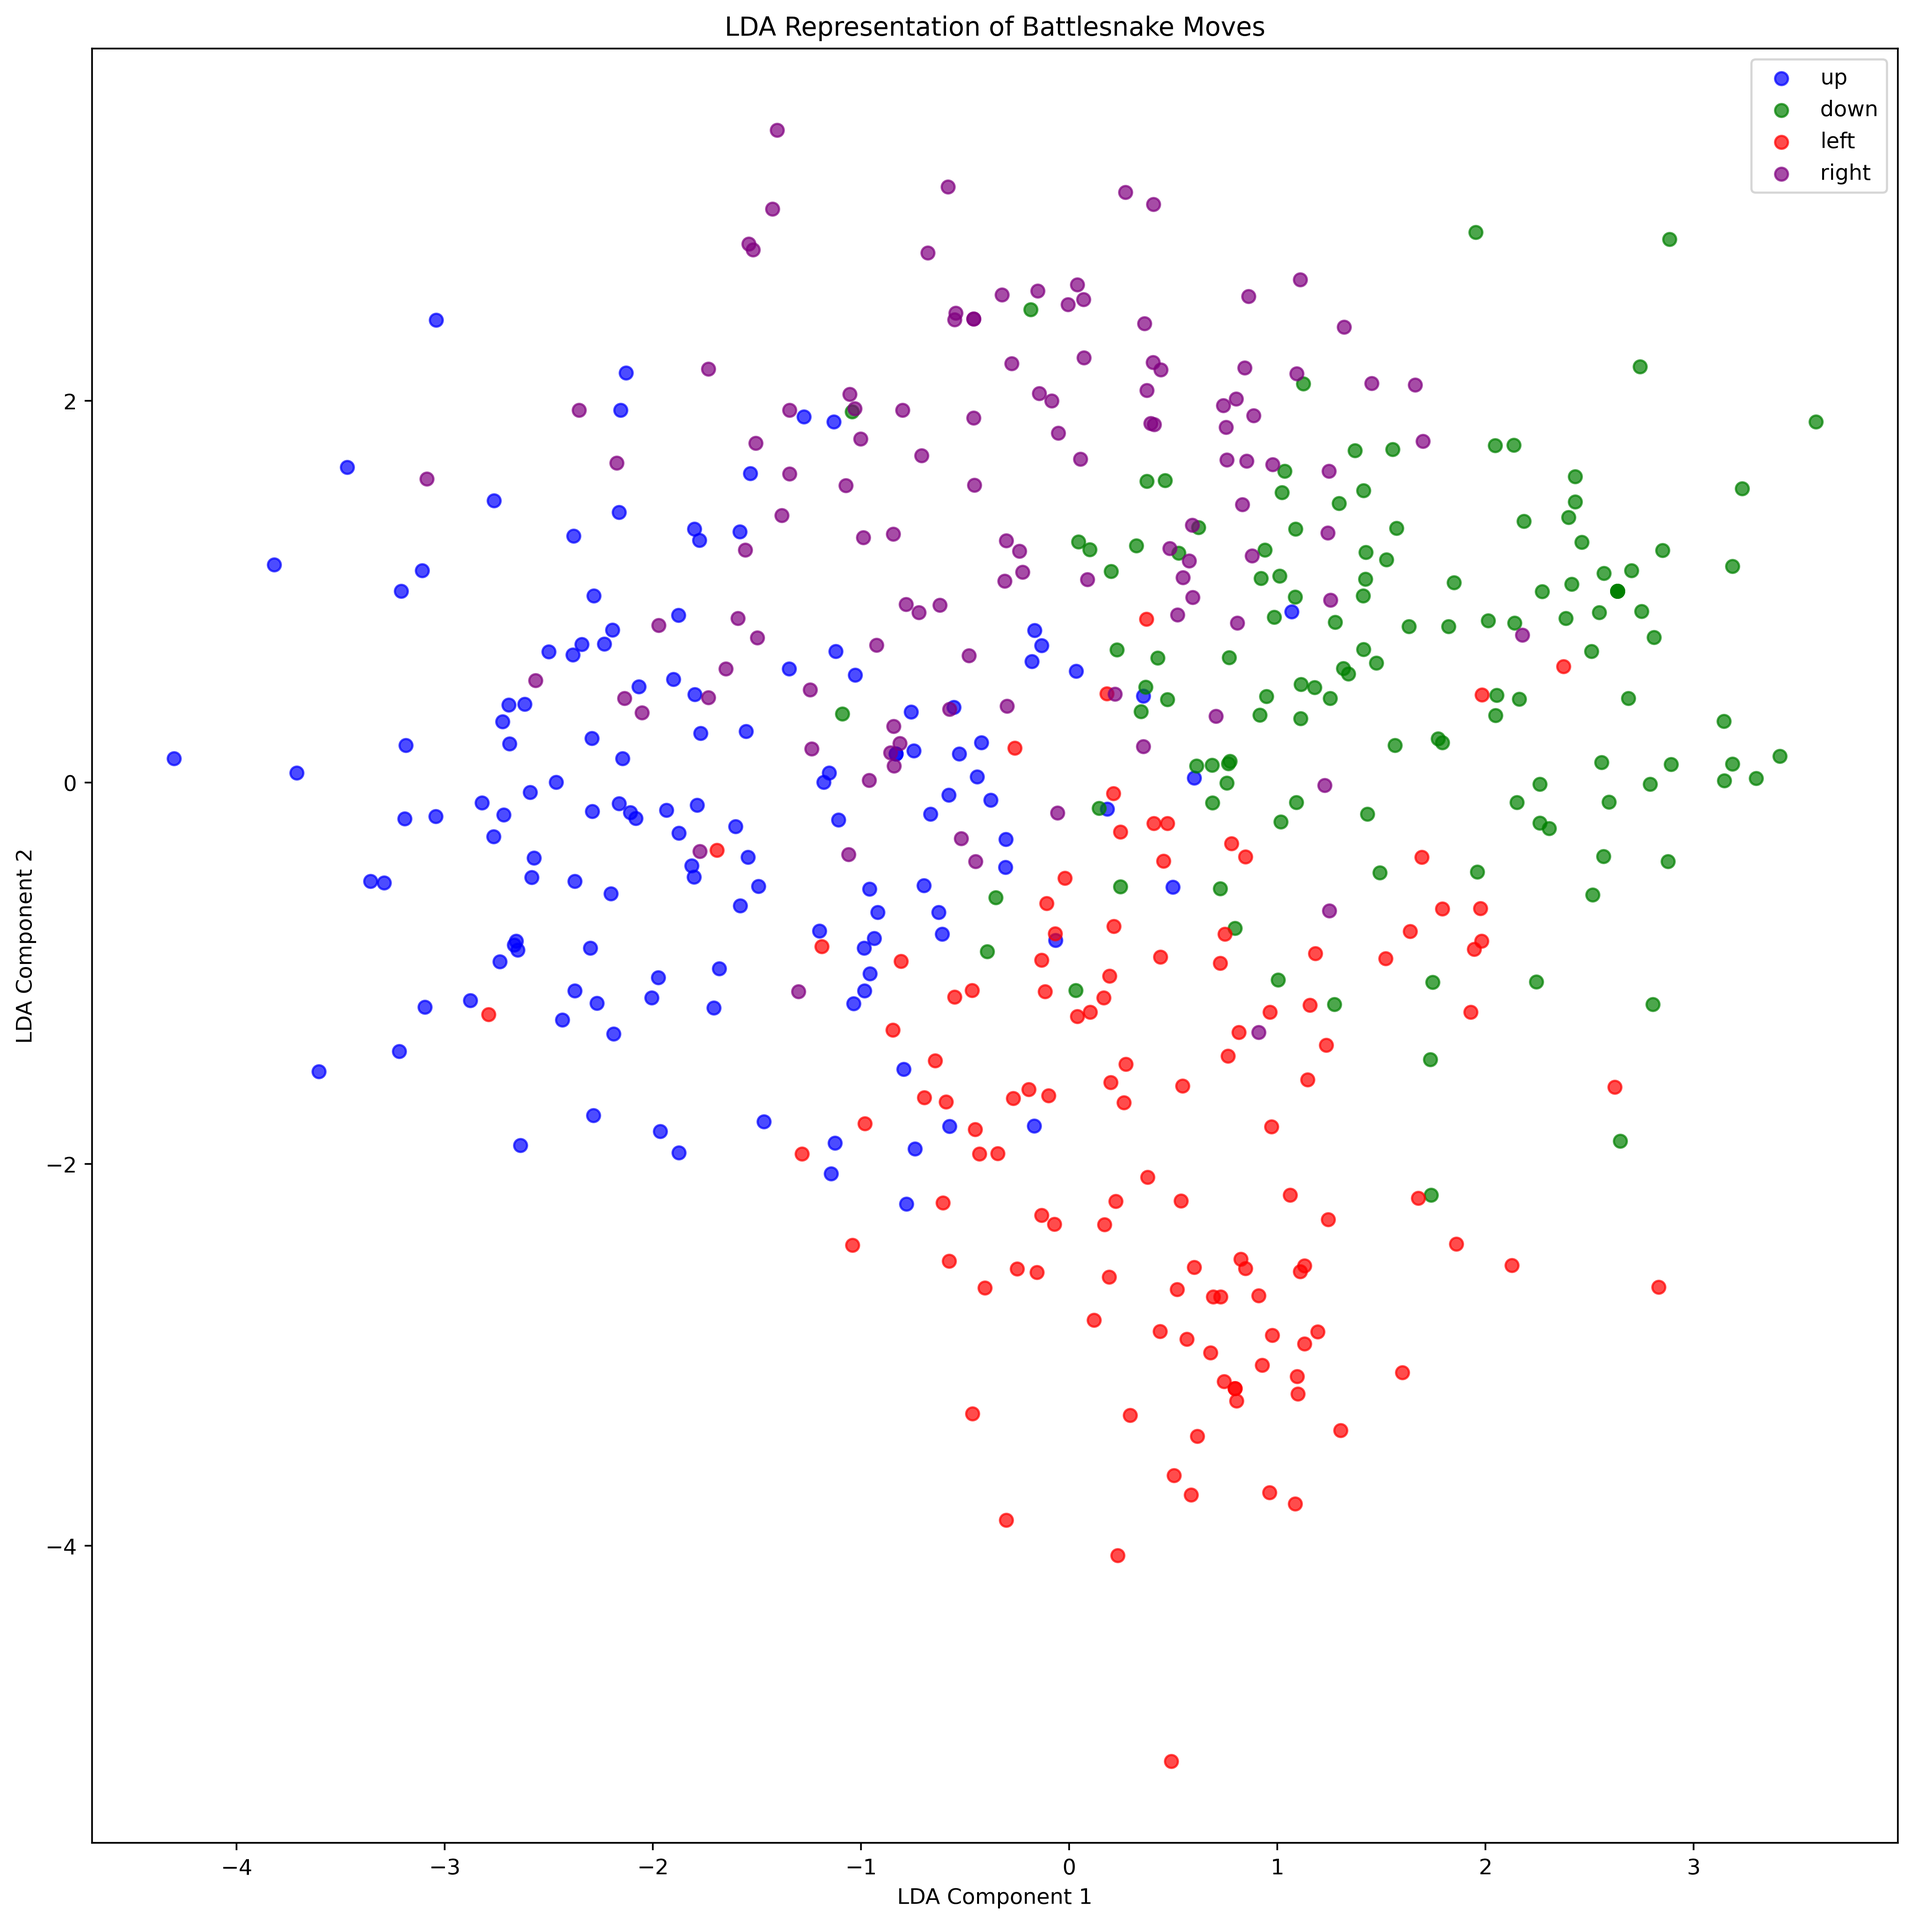
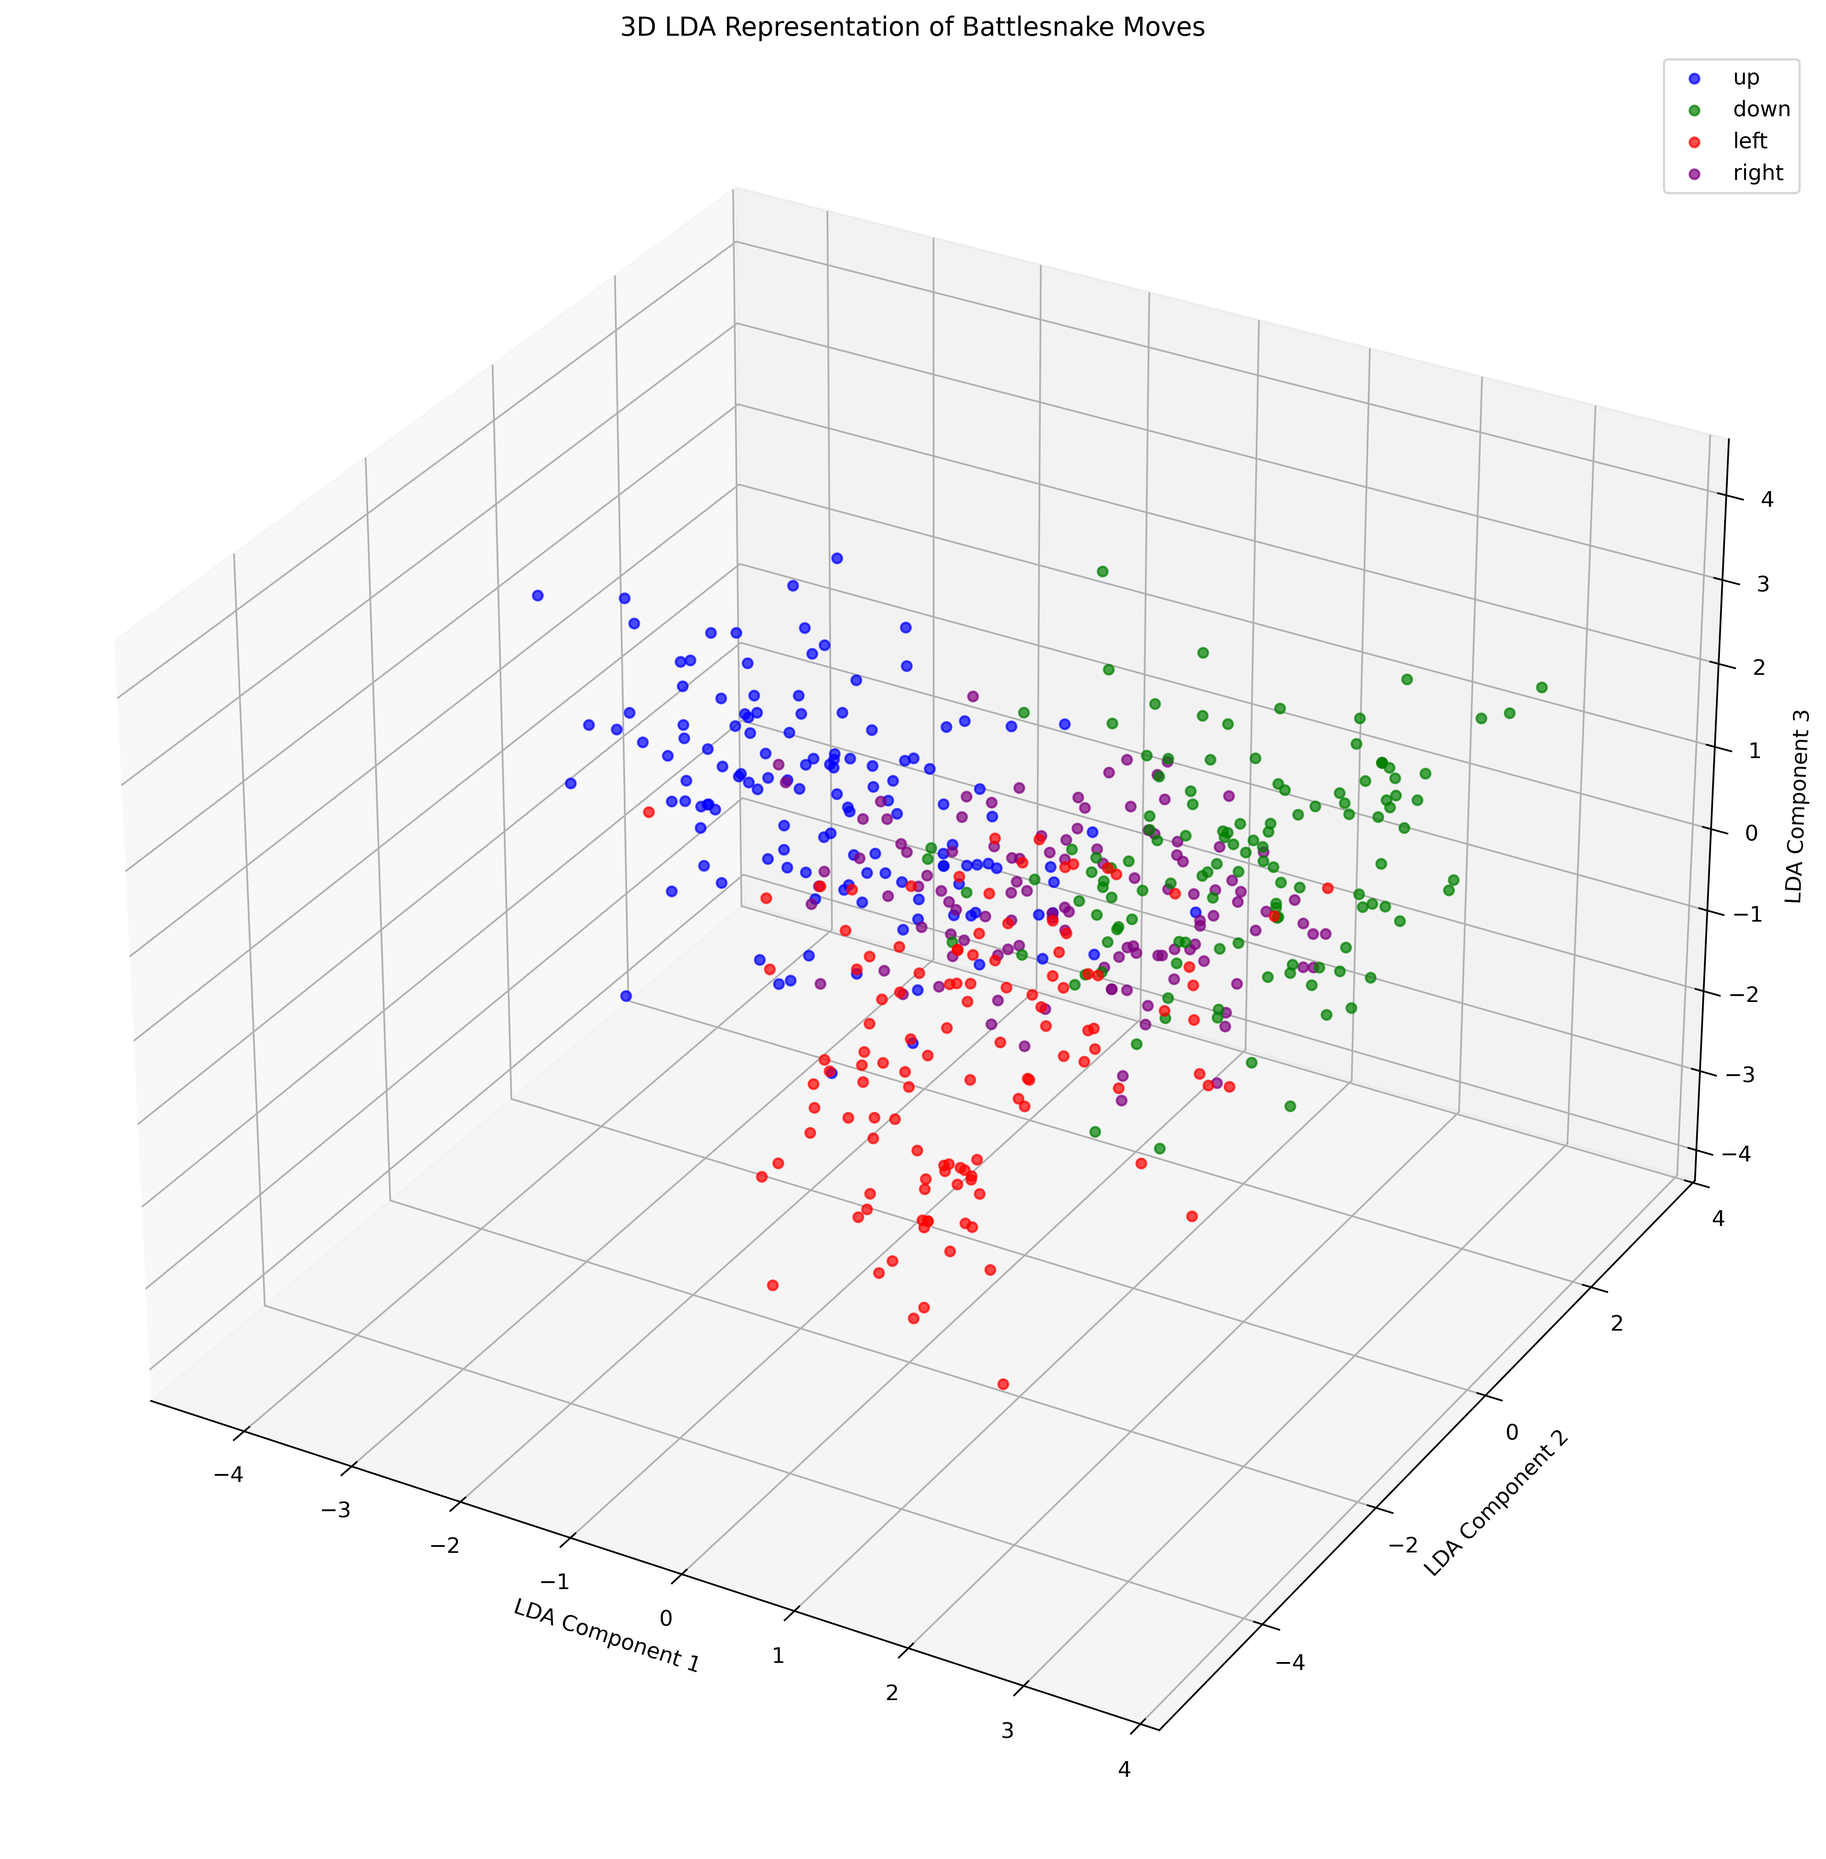
3d lda branch

diff --git a/Data/data.py b/Data/data.py
@@ -64,6 +64,50 @@ class Data:
     db_index = davies_bouldin_score(X_r2, y)
     print(f'Davies-Bouldin Index after LDA: {db_index}')
       
+  def plot_lda_3d(self, path=None, show=False):
+    X = self.flattened_frames[:-1]  # Last frame has no move
+    y = self.encoded_moves
+
+    scaler = MinMaxScaler()
+    X_scaled = scaler.fit_transform(X)
+
+    # Initialize LDA with 3 components for 3D plotting
+    lda = LinearDiscriminantAnalysis(n_components=3)
+    X_r3 = lda.fit_transform(X_scaled, y)
+    
+    # Create a 3D plot
+    fig = plt.figure(figsize=(15, 15))
+    ax = fig.add_subplot(111, projection='3d')
+
+    target_names = ['up', 'down', 'left', 'right']
+    labels = [0, 1, 2, 3]
+    colors = ['blue', 'green', 'red', 'purple']
+    for color, label in zip(colors, labels):
+        idx = y == label
+        ax.scatter(X_r3[idx, 0], X_r3[idx, 1], X_r3[idx, 2], color=color, label=target_names[label], alpha=0.7)
+
+    # Set labels and title
+    ax.set_title("3D LDA Representation of Battlesnake Moves")
+    ax.set_xlabel("LDA Component 1")
+    ax.set_ylabel("LDA Component 2")
+    ax.set_zlabel("LDA Component 3")
+    ax.legend(loc="best")
+    
+    # Show or save the plot
+    if show:
+        plt.show()
+    if path is not None:
+        plt.savefig(path, format='png', bbox_inches='tight', dpi=400)
+    plt.clf()
+    
+    # Calculate and print clustering scores
+    score = silhouette_score(X_r3, y)
+    print(f'Silhouette Score after 3D LDA: {score}')
+    
+    db_index = davies_bouldin_score(X_r3, y)
+    print(f'Davies-Bouldin Index after 3D LDA: {db_index}')
+
+  
   def plot_mds(self, path = None, show = False):    
     euclidean_data = self.__calculate_euclidean_distance()
     mds = self.__multi_dim_scaling(euclidean_data)
@@ -317,3 +361,4 @@ class Data:
   def __multi_dim_scaling(self, data, dim = 2):
     mds = MDS(n_components=dim, random_state=0, dissimilarity='precomputed')  
     return mds.fit_transform(data)
+

diff --git a/visualization.py b/visualization.py
@@ -7,6 +7,7 @@ print(data_class.moves[0])
 print(data_class.flattened_frames[34])
 
 data_class.plot_lda('./vis_out/LDA/LDA_scaled_2.png', False)
+data_class.plot_lda_3d('./vis_out/LDA/LDA_scaled_2.png', False)
 # data_class.plot_lda(None, True)
 
 # data_class.plot_mds(None, True)
